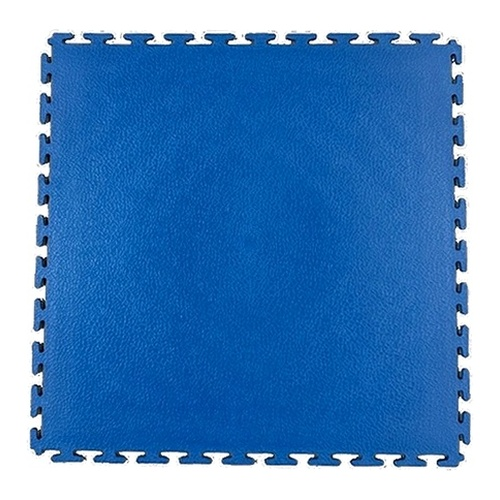
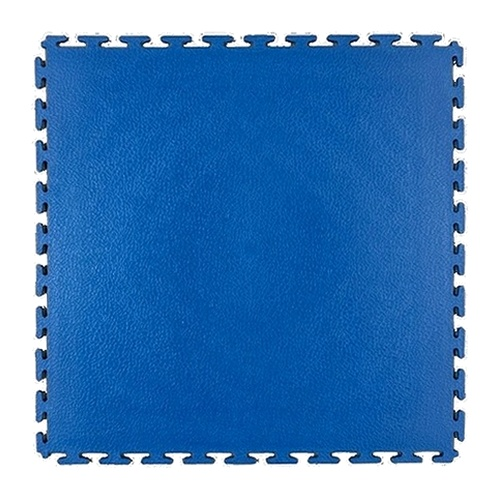
fix(trama): flatten perspective so it reads front-on like moneda

diff --git a/calculadora-baldosas/sw.js b/calculadora-baldosas/sw.js
@@ -1,4 +1,4 @@
-const CACHE = 'nexa-v110-size-match-moneda';
+const CACHE = 'nexa-v20260728-trama-front';
 const ASSETS = [
   './',
   './index.html',
